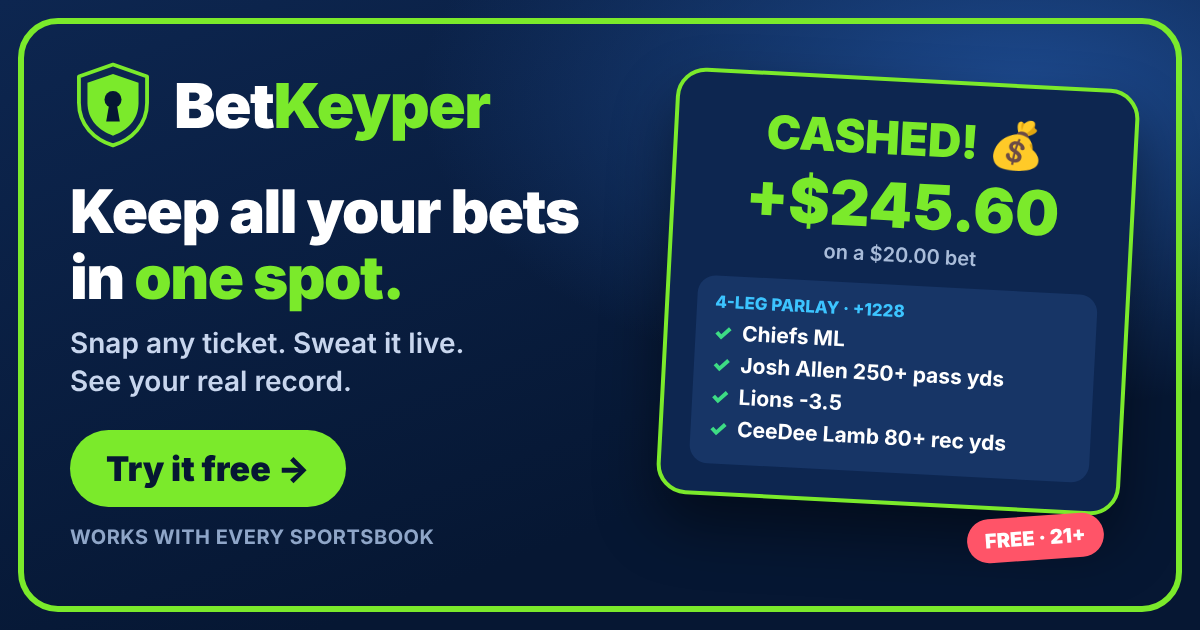
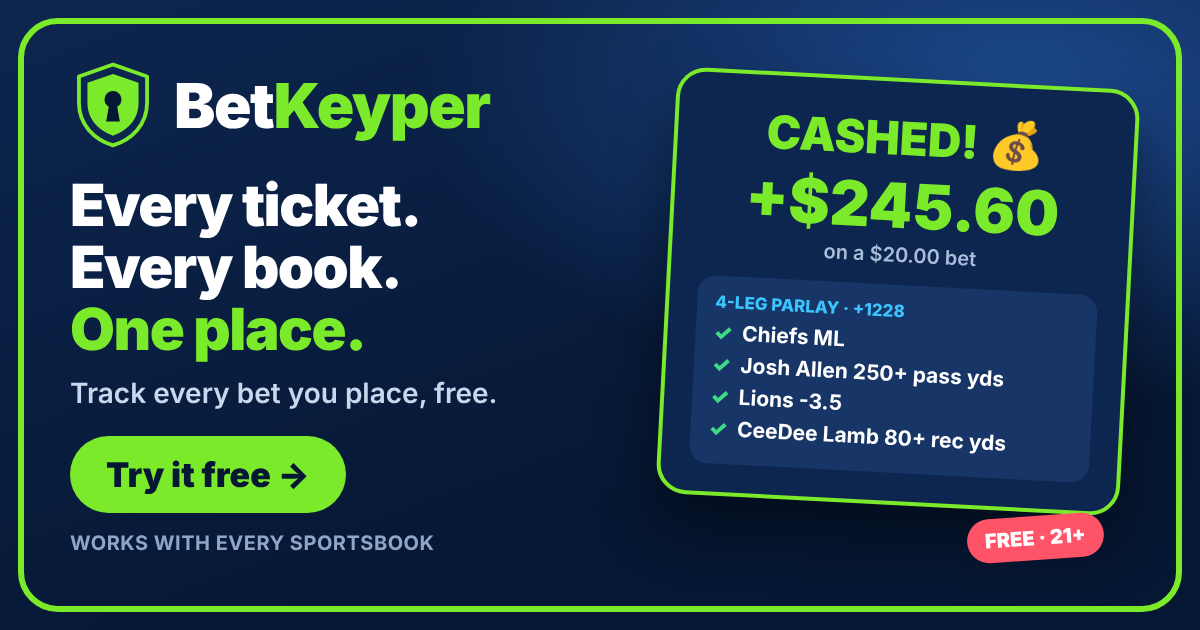
Marketing built around the slogan
Every ticket. Every book. One place. now leads the link-preview ad, page
titles, share messages, card pages and App Store text. Share lines
rewritten in one voice (Cashed this one., Locked in., Sweating this one
live., bad beat / bad bet / L), each followed by the slogan and the free
offer. docs/MARKETING.md is the copy guide.

Claude-Session: https://claude.ai/code/session_01WsUMHT8uwzP9m6FpyeoY5P

Changed region(s): [[0.0617, 0.2714, 0.4933, 0.7238], [0.0617, 0.7238, 0.37, 0.8746]]

diff --git a/brand/share-banner.html b/brand/share-banner.html
@@ -11,10 +11,10 @@
   .brand{display:flex;align-items:center;gap:18px}
   .word{font-size:62px;font-weight:900;letter-spacing:-1.5px}
   .word b{color:#7BEA2B}
-  h1{font-size:60px;line-height:66px;font-weight:900;letter-spacing:-1.5px;margin:30px 0 14px;white-space:nowrap}
+  h1{font-size:58px;line-height:62px;font-weight:900;letter-spacing:-1.5px;margin:26px 0 14px;white-space:nowrap}
   h1 span{color:#7BEA2B}
   .sub{font-size:28px;line-height:38px;color:#C8D6EE;font-weight:600}
-  .cta{display:inline-block;margin-top:30px;background:#7BEA2B;color:#061733;font-size:34px;font-weight:900;padding:18px 36px;border-radius:999px}
+  .cta{display:inline-block;margin-top:24px;background:#7BEA2B;color:#061733;font-size:34px;font-weight:900;padding:18px 36px;border-radius:999px}
   .books{margin-top:18px;font-size:20px;color:#8FA6C8;font-weight:700;letter-spacing:.5px}
   .card{position:absolute;right:70px;top:78px;width:400px;background:#0D2650;border:4px solid #7BEA2B;border-radius:30px;padding:28px;box-shadow:0 30px 60px rgba(0,0,0,.45);transform:rotate(3deg)}
   .card .t{color:#7BEA2B;font-size:46px;font-weight:900;text-align:center}
@@ -34,8 +34,8 @@
       <svg width="86" height="86" viewBox="18 4 174 202"><path d="M105 10 l80 28 v62 c0 52 -36 86 -80 100 c-44 -14 -80 -48 -80 -100 v-62z" fill="#0D2650" stroke="#7BEA2B" stroke-width="9" stroke-linejoin="round"/><path d="M105 32 l60 21 v47 c0 40 -27 66 -60 77 c-33 -11 -60 -37 -60 -77 v-47z" fill="#7BEA2B"/><circle cx="105" cy="92" r="20" fill="#061733"/><path d="M96 104 h18 l7 40 h-32z" fill="#061733"/></svg>
       <div class="word">Bet<b>Keyper</b></div>
     </div>
-    <h1>Keep all your bets<br>in <span>one spot.</span></h1>
-    <div class="sub">Snap any ticket. Sweat it live.<br>See your real record.</div>
+    <h1>Every ticket.<br>Every book.<br><span>One place.</span></h1>
+    <div class="sub">Track every bet you place, free.</div>
     <div class="cta">Try it free →</div>
     <div class="books">WORKS WITH EVERY SPORTSBOOK</div>
   </div>

diff --git a/public/index.html b/public/index.html
@@ -16,16 +16,16 @@
     <meta name="mobile-web-app-capable" content="yes" />
     <meta name="apple-mobile-web-app-status-bar-style" content="black-translucent" />
     <meta name="apple-mobile-web-app-title" content="BetKeyper" />
-    <meta name="description" content="Every ticket. Every book. One place. Track every bet from every sportsbook for free." />
+    <meta name="description" content="Every ticket. Every book. One place. Track every bet you place, free." />
     <meta name="theme-color" content="#061733" />
     <!-- Link previews (iMessage, social) -->
     <meta property="og:site_name" content="BetKeyper" />
-    <meta property="og:title" content="BetKeyper: Keep all your bets in one spot" />
-    <meta property="og:description" content="Try it free. Snap any ticket from any book, sweat it live and see your real record." />
+    <meta property="og:title" content="BetKeyper: Every ticket. Every book. One place." />
+    <meta property="og:description" content="Track every bet you place, free. Scan any ticket, sweat it live and see your real record." />
     <meta property="og:image" content="https://jamesfaucett33.github.io/Bet-tracker-app/og-image.png" />
     <meta property="og:image:width" content="1200" />
     <meta property="og:image:height" content="630" />
-    <meta property="og:image:alt" content="BetKeyper: Keep all your bets in one spot. Try it free." />
+    <meta property="og:image:alt" content="BetKeyper. Every ticket. Every book. One place. Try it free." />
     <meta property="og:type" content="website" />
     <meta name="twitter:card" content="summary_large_image" />
     <meta name="twitter:image" content="https://jamesfaucett33.github.io/Bet-tracker-app/og-image.png" />

diff --git a/src/referral.ts b/src/referral.ts
@@ -76,23 +76,22 @@ export function inviteText(
   kind?: 'win' | 'beat' | 'push' | 'open' | 'live',
   loss?: LossKind,
 ): string {
+  // House style: a short line about the bet, then the slogan and the offer.
   const lead =
     kind === 'win'
-      ? 'Check out this bet I just won! 💰'
+      ? 'Cashed this one. 💰'
       : kind === 'beat'
         ? LOSS_TITLE[loss ?? 'busted'].share
         : kind === 'live'
-          ? "Sweating this one live 🔥 Check out my bet!"
+          ? 'Sweating this one live. 🔥'
           : kind === 'open'
-            ? "Check out the bet I'm riding 🎟"
+            ? 'Locked in. 🎟'
             : kind === 'push'
-              ? 'Check out my bet 🤝'
-              : 'Try BetKeyper free! 🎟';
-  const pitch = kind
-    ? 'Keep track of all your bets in one place for free with BetKeyper.'
-    : 'Keep all your bets in one spot, from every sportsbook.';
+              ? 'Pushed this one. 🤝'
+              : 'I track all my bets on BetKeyper.';
+  const pitch = 'Every ticket. Every book. One place. Track yours free on BetKeyper.';
   return code
-    ? `${lead} ${pitch} Sign up with my link and we both get ${REFERRAL_BONUS} free bet uploads: ${inviteLink(code)}`
+    ? `${lead} ${pitch} Join with my link and we both get ${REFERRAL_BONUS} free bet uploads: ${inviteLink(code)}`
     : `${lead} ${pitch} ${appUrl()}`;
 }
 

diff --git a/functions/c/[[path]].js b/functions/c/[[path]].js
@@ -29,8 +29,8 @@ export async function onRequest({ params, request }) {
   const desc =
     meta.description ||
     (ref
-      ? `Keep track of all your bets in one place for free. Join with code ${ref} and we both get 25 free bet uploads.`
-      : 'Keep track of all your bets in one place for free with BetKeyper.');
+      ? `Every ticket. Every book. One place. Join BetKeyper free with code ${ref} and get 25 free bet uploads.`
+      : 'Every ticket. Every book. One place. Track your bets free on BetKeyper.');
   const image = `${base}.png`;
 
   const html = `<!doctype html>
@@ -59,7 +59,7 @@ export async function onRequest({ params, request }) {
 </style>
 </head><body><main>
 <img src="${esc(image)}" alt="${esc(title)}">
-<a class="btn" href="${esc(app)}">${ref ? 'Join free: get 25 bet uploads' : 'Open BetKeyper'}</a>
+<a class="btn" href="${esc(app)}">${ref ? 'Join free and get 25 bet uploads' : 'Try BetKeyper free'}</a>
 <p>${esc(desc)}</p>
 </main>
 <script>setTimeout(function(){location.replace(${JSON.stringify(app)})},1800)</script>

diff --git a/src/lossKind.ts b/src/lossKind.ts
@@ -40,9 +40,9 @@ const JOKES: Record<LossKind, string[]> = {
 };
 
 export const LOSS_TITLE: Record<LossKind, { title: string; emoji: string; share: string }> = {
-  badBeat: { title: 'BAD BEAT', emoji: '😩', share: 'Check out this bad beat 😩' },
-  badBet: { title: 'BAD BET', emoji: '🤡', share: 'Check out this bad bet 🤡' },
-  busted: { title: 'BUSTED', emoji: '💀', share: 'Took an L on this one 💀' },
+  badBeat: { title: 'BAD BEAT', emoji: '😩', share: 'One leg away. Brutal bad beat. 😩' },
+  badBet: { title: 'BAD BET', emoji: '🤡', share: 'Not one leg hit. Bad bet. 🤡' },
+  busted: { title: 'BUSTED', emoji: '💀', share: 'Took an L on this one. 💀' },
 };
 
 /** A joke for this ticket, the same every time (card, pop-up and share match). */

diff --git a/src/shareCard.ts b/src/shareCard.ts
@@ -263,7 +263,7 @@ export async function shareCard(
     try {
       await nav.share({
         files: [file],
-        text: text ?? 'Check out my bet on BetKeyper',
+        text: text ?? 'Every ticket. Every book. One place. Track yours free on BetKeyper.',
       });
       return 'shared';
     } catch {

diff --git a/docs/MARKETING.md b/docs/MARKETING.md
@@ -1,0 +1,44 @@
+# BetKeyper voice & copy
+
+## The line
+**Every ticket. Every book. One place.**
+Always written exactly like this: three short sentences, each ending in a period, capital E / E / O. It leads every ad, preview and store listing. Never reword it.
+
+## Supporting lines (pick one, don't stack them)
+- **Track every bet you place, free.** (the offer; use with the slogan)
+- **Snap any ticket. Sweat it live. See your real record.** (what it does)
+- **Works with every sportsbook.** (never name the books in ads: trademarks)
+
+## Voice
+- Talks like a friend at the sportsbook window: short, confident, a little funny.
+- Celebrates wins, laughs at bad beats, never shames losses.
+- Plain words: "bet uploads", not "AI scans"; "ticket" or "slip", not "wager record".
+- Always honest: BetKeyper tracks bets you already placed. It never takes bets. 21+.
+
+## Share messages (in the app)
+| Moment | Message |
+|---|---|
+| Win | Cashed this one. 💰 |
+| Bad beat (one leg away) | One leg away. Brutal bad beat. 😩 |
+| Bad bet (nothing hit) | Not one leg hit. Bad bet. 🤡 |
+| Other loss | Took an L on this one. 💀 |
+| Open | Locked in. 🎟 |
+| Live | Sweating this one live. 🔥 |
+| Push | Pushed this one. 🤝 |
+| Plain invite | I track all my bets on BetKeyper. |
+
+Every one continues: **"Every ticket. Every book. One place. Track yours free on BetKeyper."** plus, when the person has an invite code, **"Join with my link and we both get 25 free bet uploads:"** and the link.
+
+## Link preview (texts, social)
+- Image: `public/og-image.png` (from `brand/share-banner.html`): logo, the slogan, "Track every bet you place, free.", **Try it free →**, a sample CASHED! card, "Works with every sportsbook", "FREE · 21+".
+- Title: "BetKeyper: Every ticket. Every book. One place."
+- Description: "Track every bet you place, free. Scan any ticket, sweat it live and see your real record."
+
+## App Store
+- Name: **BetKeyper: Sports Bet Tracker**
+- Subtitle (30): **Every ticket. Every book.** (the full slogan is too long for 30 characters)
+- Promotional text: **Every ticket. Every book. One place. Track every bet you place, free: scan any slip, sweat it live and see your real record.**
+- Description opens with the slogan (see `docs/APP_STORE_SUBMISSION.md`).
+
+## Required everywhere money or betting is shown
+"BetKeyper tracks bets you've already placed; it doesn't take wagers. 21+. Gambling problem? Call 1-800-GAMBLER."

diff --git a/docs/APP_STORE_SUBMISSION.md b/docs/APP_STORE_SUBMISSION.md
@@ -89,11 +89,11 @@ In App Store Connect → the app → **TestFlight**:
 App Store Connect → the app → **App Store** tab. Ready-to-paste text:
 
 - **Name** (30): `BetKeyper: Sports Bet Tracker`
-- **Subtitle** (30): `Scan tickets from every book`
+- **Subtitle** (30): `Every ticket. Every book.`
 - **Category:** Primary **Sports**; Secondary **Utilities** or **Lifestyle**
 - **Keywords** (100, commas, no spaces, don't repeat words from the name):
   `parlay,sportsbook,slip,scanner,vegas,casino,odds,nfl,nba,props,sgp,live,scores,bankroll,record,wager`
-- **Promotional text:** `What happens in Vegas… gets tracked. Scan every ticket from every sportsbook and keep your real record in one place.`
+- **Promotional text:** `Every ticket. Every book. One place. Track every bet you place, free: scan any slip, sweat it live and see your real record.`
 - **Description:**
   ```
   Every ticket. Every book. One place.
